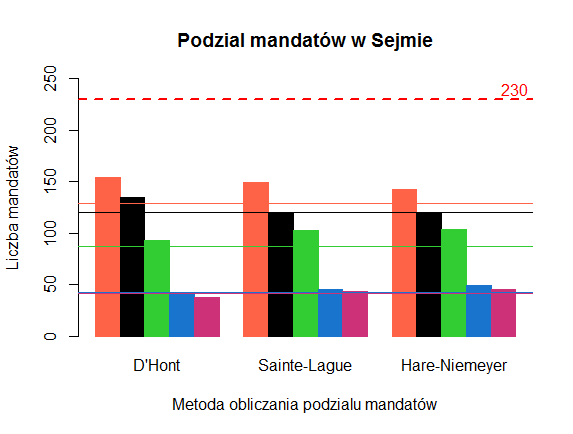
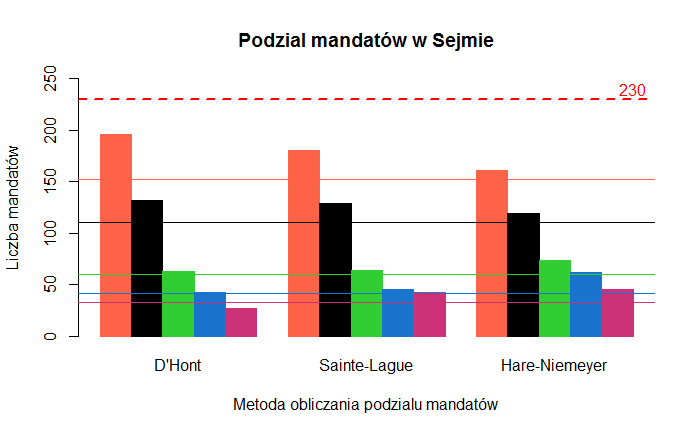
aktualizacja readme

diff --git a/README.md b/README.md
@@ -1,18 +1,22 @@
 # Wstep
 Ten zestaw funkcji pozwoli Ci na przeliczanie podziału mandatów w danych okręgach wyborczych do Sejmu RP trzema różnymi metodami: **D'Honta** , **Sainte-Lague** lub **Hare-Niemeyera**. Okreslajac wyniki procentowe dla poszczególnych komitetów lub korzystajac z prawdziwych wyników pobranych ze strony PKW możesz sprawdzić jak rozkladalyby sie mandaty na poziomie okregów lub calego kraju.
 
-## Funkcja "wybory"
-Użyj funkcji `wybory`, wpisz poparcie dla 5 komitetów wyborczych oraz wybierz numer okręgu wyborczego, aby zobaczyć jak rozkładałyby się w takiej sytuacji mandaty pomiędzy komitetami w zależności od zastosowanej metody podzialu mandatów. Jako siódmą zmienną możesz także ustalić frekwencję wyborczą - domyślnie ustawiona jest ona na 100%.
-Funkcja zwraca wynik w formie macierzy w której każda kolumna zawiera liczbę mandatów uzyskanych przez komitet wg danej metody. Zobaczysz także wygenerowany wykres slupkowy.
+## Funkcja "wybory_okreg"
+Użyj funkcji `wybory_okreg`, wpisz poparcie dla 5 komitetów wyborczych oraz wybierz numer okręgu wyborczego, aby zobaczyć jak rozkładałyby się w takiej sytuacji mandaty pomiędzy komitetami w zależności od zastosowanej metody podzialu mandatów. Jako siódmą zmienną możesz także ustalić frekwencję wyborczą - domyślnie ustawiona jest ona na 100%.
+Funkcja zwraca wynik w formie macierzy w której każda kolumna zawiera liczbę mandatów uzyskanych przez komitet wg danej metody. Zobaczysz także wygenerowany wykres slupkowy. Poziome linie wyznaczaja realne poparcie komitetów w odniesieniu do liczby mandatów dostepnych w danym okregu wyborczym.
 
 ```r
 wybory_okreg(kom1 = 30, kom2 = 29, kom3 = 10, kom4 = 7, kom5 = 6, okreg = 4)
 ```
 
-![](wybory_wykres.png)
+![](wyborywykres_wykres.png)
 
 ## Funkcja "wybory_pl"
-Możesz użyć także funkcji `wybory_pl`, która symuluje rozkład mandatów w Sejmie różnymi metodami w hipotetycznym przypadku równomiernego rozkładu głosów na partie w każdym okręgu. Jako argumenty należy podać poparcie poszczególnych komitetów oraz ewentualnie frekwencję (domyślnie 100%). Funkcja nie uwzględnia jednak na ten moment ograniczenia w postaci 5-procentowego progu wyborczego dla komitetu - mandaty dostanie każda partia której one przysługują, niezależnie od wyniku ogólnopolskiego. Tutaj także rozklad mandatów zostanie przedstawiony dodatkowo w formie wykresów slupkowych.
+Możesz użyć także funkcji `wybory_pl`, która symuluje rozkład mandatów w Sejmie różnymi metodami w hipotetycznym przypadku równomiernego rozkładu głosów na partie w każdym okręgu. Jako argumenty należy podać poparcie poszczególnych komitetów oraz ewentualnie frekwencję (domyślnie 100%). Funkcja nie uwzględnia jednak na ten moment ograniczenia w postaci 5-procentowego progu wyborczego dla komitetu - mandaty dostanie każda partia której one przysługują, niezależnie od wyniku ogólnopolskiego. Tutaj także rozklad mandatów zostanie przedstawiony dodatkowo w formie wykresów slupkowych. Ciagle kolorowe linie wyznaczaja realne poparcie komitetów w przeliczeniu na mandaty poselskie, natomiast czerwona linia przerywana ilustruje próg 231 mandatów - tyle ile jest potrzebne do samodzielnych rzadów w parlamencie.
+
+```r
+wybory_pl(kom1 = 33, kom2 = 24, kom3 = 13, kom4 = 9, kom5 = 7)
+```
 
 ![](wyborypl_wykres.png)
 
@@ -20,12 +24,26 @@ Możesz użyć także funkcji `wybory_pl`, która symuluje rozkład mandatów w 
 Funkcja `wybory_rok` oblicza realny rozkład mandatów w Sejmie dla procentowych wyników wyborów z danego roku używając do tego wszystkich trzech wspomnianych metod. Jej jedynym argumentem jest macierz klasy **macierz_wynikow**, którą można stworzyć przy użyciu konstruktora - `konstruktor_wynikow`. Potrzebujesz do niego danych z wynikami w formie pliku CSV możliwego do pobrania ze strony PKW. Oprócz nazwy pliku, należy podać numery kolumn, w których znajdują się interesujące nas dane nt. poparcia poszczególnych komitetów.
 Funkcja `konstruktor_wynikow` zwraca obiekt o nazwie "okregi_wyniki".
 
+**Przyklad:** 
+1. Pobranie pliku CSV z wynikami wyborów parlamentarnych w 2019 roku - [link](https://sejmsenat2019.pkw.gov.pl/sejmsenat2019/data/csv/wyniki_gl_na_listy_po_okregach_sejm_csv.zip)
+2. Rozpakowanie pliku .zip w wybranym folderze.
+3. Przegladniecie pliku w programie obsugujacym arkusze kalkulacyjne; zidentyfikowanie w których kolumnach arkusza znajduja sie wyniki interesujacych nas komitetów.
+4. Użycie poniższego kodu.
+
+```r
+wybory_2019 = konstruktor_wynikow("sejm_wyniki2019.csv", 9, 11, 12, 14, 16)
+wybory_rok(wybory_2019)
+```
+
 Wygenerowany za pomoca funkcji `wybory_rok` wykres obrazujacy rozklad mandatow w Sejmie po wyborach parlamentarnych 2019 w zaleznosci od wybranej metody przeliczania. Czerwona przerywana linia oznacza liczbe mandatów potrzebnych do uzyskania wiekszosci w Sejmie, natomiast ciensze, kolorowe linie obrazuja realne poparcie danych komitetów w przeliczeniu na sejmowe mandaty:
 ![](wyboryrok_wykres.png)
 
-## Wykres pudekowy
-Funkcja `konstruktor_wynikow` tworzy także ramke danych o nazwie "okregi_wyniki_df". Możesz jej użyć jako argument w funkcji `wykres_wyniki`, aby stworzyć wykres pudelkowy wizualizujacy podstawowe statystyki dot. poparcia komitetów wyborczych w danym roku.
-Oprócz standardowych informacji wykresu pudelkowego (np. mediana czy zakres miedzykwantylowy), widoczne beda wyniki każdego komitetu w poszczególnych okregach.
+## Funkcja "wykres_wyniki" - wykres eksploracyjny
+Używajac funkcji `wykres_wyniki` o identycznych argumentach jak w funkcji `wybory_rok` możemy stworzyć wykres pudelkowy obrazujacy rozklad wyników poszczególnych komitetów wyborczych w okregach.
+
+```r
+wykres_wyniki("sejm_wyniki2019.csv", 9, 11, 12, 14, 16)
+```
 
 ![](wykres.png)
 
